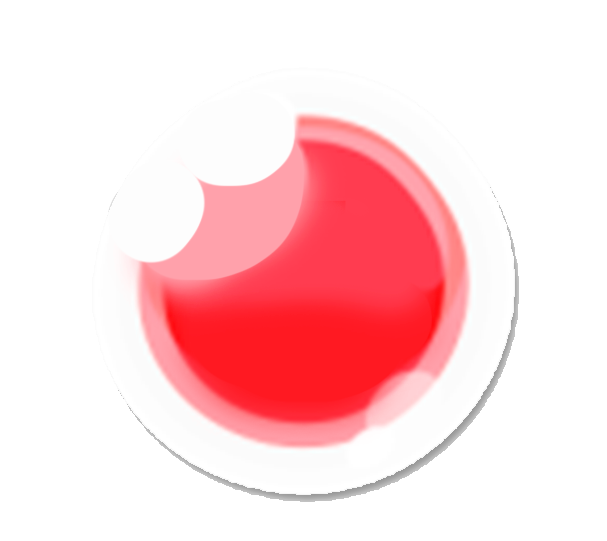
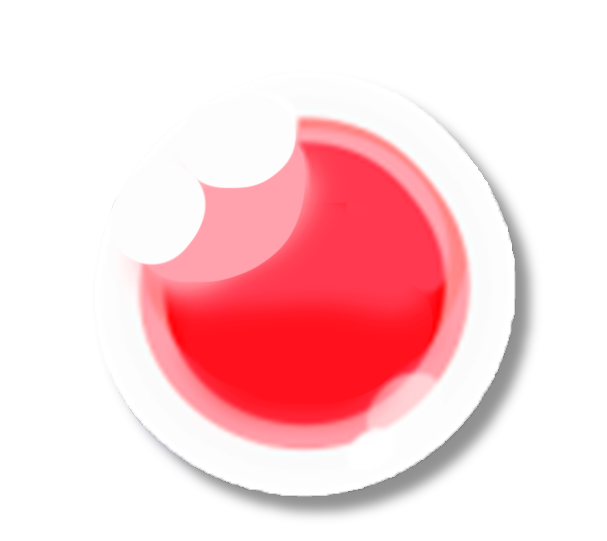
Update 1.1.4

diff --git a/pages/1.1.4/src/scenes/gamescene.js b/pages/1.1.4/src/scenes/gamescene.js
@@ -44,6 +44,8 @@ var indManos;
 var b_continuar; //BOTONES PAUSA Y PUNTAJE
 var b_salir;
 var b_volver;
+var b_siguiente;
+var b_niveles;
 var b_mute;
 var ctndr_burgers = [];
 var plato_burgers = [];
@@ -57,6 +59,7 @@ var F_manoslimpias = true;
 var F_contaminado = false;
 var F_lavar = false;
 var F_nivelactual;
+var F_nivelactualnum;
 var F_generartickets = false;
 var F_freir;
 var progresoLav = 0;
@@ -98,7 +101,7 @@ var puntajeBfinal=0;//salubridad
 var puntajeCfinal=100;//tiempo
 var puntajeTotalfinal = 0;
 
-
+var nivel;
 
 
 var repeticionesA = 0;
@@ -122,18 +125,9 @@ class gamescene extends Phaser.Scene {
 
         //sonidos
 
-        this.anims.create({ //boton mute
-            key: 'sound_on',
-            frames: [ { key: 'sp_b_mute', frame: 0 } ],
-            frameRate: 20,
-        })
-        this.anims.create({
-            key: 'sound_off',
-            frames: [ { key: 'sp_b_mute', frame: 1 } ],
-            frameRate: 20,
-        })
+        //boton mute
 
-        b_mute = this.add.sprite(760,760,'sp_b_mute').setScale(0.2).setDepth(11).setInteractive().setScrollFactor(0);
+        b_mute = this.add.sprite(760,760,'sp_b_mute').setScale(0.2).setDepth(100).setInteractive().setScrollFactor(0);
 
         b_mute.on("pointerup",function(){
             if(!mundo.sound.mute){
@@ -178,16 +172,10 @@ class gamescene extends Phaser.Scene {
 
         for(var i=0;i<6;i++){
             b_nivel[i].on("pointerup",function(){
+                F_nivelactualnum = this.data.values.nivel;
                 F_nivelactual = "level"+this.data.values.nivel;
                 F_generartickets = true;
-                for(var b=0;b<6;b++){
-                    b_nivel[b].removeInteractive().setDepth(-1);
-                    b_niveltexto[b].setDepth(-1);
-                    overlayNiveles.setDepth(-1);
-                    ticketsjson = mundo.cache.json.get(F_nivelactual);
-                    F_selniv = false;
-                    
-                }
+                
             })
         }
 
@@ -220,7 +208,13 @@ class gamescene extends Phaser.Scene {
         //overlay de hamburguesa hecha y boton de basura
 
         overlayBurgerDone = this.add.image(center_width,center_height,'overlay_burgerDone').setDepth(-1).setScrollFactor(0);
-        b_basura = this.add.image(200,110,'b_basura').setDepth(8).setScrollFactor(0).setInteractive();
+        b_basura = this.add.image(180,105,'sp_b_basura').setDepth(8).setScrollFactor(0).setInteractive();
+        b_basura.on('pointerover',function(){
+            b_basura.setFrame(1);
+        })
+        b_basura.on('pointerout',function(){
+            b_basura.setFrame(0);
+        })
         b_basura.on('pointerup',function(){
             if(!F_pausa && !F_selniv && tabla_burgers.length > 0){
                 s_basura.play();
@@ -382,27 +376,15 @@ class gamescene extends Phaser.Scene {
         b_continuar = this.add.image(center_width,center_height-30,'b_continuar').setDepth(-1).setScrollFactor(0).setInteractive();
         b_salir = this.add.image(center_width,center_height+80,'b_salir').setDepth(-1).setScrollFactor(0).setInteractive();
 
-        this.anims.create({
-            key: 'anim_pausa',
-            frames: [ { key: 'sp_b_pausa', frame: 0 } ],
-            frameRate: 20,
-        })
-        this.anims.create({
-            key: 'anim_pausa_over',
-            frames: [ { key: 'sp_b_pausa', frame: 1 } ],
-            frameRate: 20,
-        })
         b_pausa = this.add.sprite(700,100,'sp_b_pausa',0).setInteractive().setDepth(3).setScrollFactor(0);
 
-        b_pausa.on('pointerout',function(){
-            
-            b_pausa.anims.play('anim_pausa');
-            
+        b_pausa.on('pointerout',function(){   
+            b_pausa.setFrame(0);
         },this);
 
         b_pausa.on('pointerover',function(){
             if(!F_pausa && !F_selniv){
-                b_pausa.anims.play('anim_pausa_over');
+                b_pausa.setFrame(1);
             }
 
         },this);
@@ -429,7 +411,7 @@ class gamescene extends Phaser.Scene {
         
 
         //icono manos
-        indManos = this.add.sprite(100,100,'sp_manos',0).setScrollFactor(0).setDepth(3);
+        indManos = this.add.sprite(90,100,'sp_manos',0).setScrollFactor(0).setDepth(3);
         this.anims.create({
             key: 'manos_on',
             frames: [ { key: 'sp_manos', frame: 0 } ],
@@ -451,69 +433,36 @@ class gamescene extends Phaser.Scene {
         botFregadero = this.add.sprite(center_width-250,center_height+250,'sp_b_fregadero').setScrollFactor(0).setInteractive();
         botFregadero.depth = 3;
 
-        this.anims.create({
-            key: 'freg',
-            frames: [ { key: 'sp_b_fregadero', frame: 0 } ],
-            frameRate: 20,
-        });
-        this.anims.create({
-            key: 'freg_active',
-            frames: [ { key: 'sp_b_fregadero', frame: 1 } ],
-            frameRate: 20,
-        });
-
-        botPlancha = this.add.sprite(center_width,center_height+250,'sp_b_plancha').setScrollFactor(0).setInteractive();
+        botPlancha = this.add.sprite(center_width,center_height+250,'sp_b_plancha').setScrollFactor(0).setInteractive().setFrame(1);
         botPlancha.depth = 3;
-
-        this.anims.create({
-            key: 'plan',
-            frames: [ { key: 'sp_b_plancha', frame: 0 } ],
-            frameRate: 20,
-        });
-        this.anims.create({
-            key: 'plan_active',
-            frames: [ { key: 'sp_b_plancha', frame: 1 } ],
-            frameRate: 20,
-        });
-        botPlancha.anims.play('plan_active');
 
         botArmado = this.add.sprite(center_width+250,center_height+250,'sp_b_armado').setScrollFactor(0).setInteractive();
         botArmado.depth = 3;
 
-        this.anims.create({
-            key: 'arma',
-            frames: [ { key: 'sp_b_armado', frame: 0 } ],
-            frameRate: 20,
-        });
-        this.anims.create({
-            key: 'arma_active',
-            frames: [ { key: 'sp_b_armado', frame: 1 } ],
-            frameRate: 20,
-        });
 
         botFregadero.on('pointerup',function(){
             if(!F_burgerDone && !F_selniv && !F_pausa){
-            botArmado.anims.play('arma');
-            botPlancha.anims.play('plan');
-            botFregadero.anims.play('freg_active');
+            botArmado.setFrame(0);
+            botPlancha.setFrame(0);
+            botFregadero.setFrame(1);
             estacion=0;
             cam.pan(center_width,0,150,'Sine.easeInOut');}
         },this)
 
         botPlancha.on('pointerup',function(){
             if(!F_burgerDone && !F_selniv && !F_pausa){
-            botArmado.anims.play('arma');
-            botFregadero.anims.play('freg');
-            botPlancha.anims.play('plan_active');
+            botArmado.setFrame(0);
+            botFregadero.setFrame(0);
+            botPlancha.setFrame(1);
             estacion=1;
             cam.pan(center_width+550,0,150,'Sine.easeInOut');}
         },this)
 
         botArmado.on('pointerup',function(){
             if(!F_burgerDone && !F_selniv && !F_pausa){
-            botPlancha.anims.play('plan');
-            botFregadero.anims.play('freg');
-            botArmado.anims.play('arma_active');
+            botPlancha.setFrame(0);
+            botFregadero.setFrame(0);
+            botArmado.setFrame(1);
             estacion=2;
             cam.pan(center_width+1100,0,150,'Sine.easeInOut');}
         },this)
@@ -534,6 +483,7 @@ class gamescene extends Phaser.Scene {
 
     
     update (time, delta){
+        mundo = this
 
         if(this.sound.mute){
             b_mute.setFrame(1);
@@ -559,6 +509,17 @@ class gamescene extends Phaser.Scene {
         }        
         // TICKETS 
         if(F_generartickets){
+
+            for(var b=0;b<6;b++){
+                b_nivel[b].removeInteractive().setDepth(-1);
+                b_niveltexto[b].setDepth(-1);
+                overlayNiveles.setDepth(-1);
+            }
+
+            ticketsjson = mundo.cache.json.get(F_nivelactual);
+            console.log(ticketsjson)
+            F_selniv = false;
+
             bgm_gameplay.volume = 0.25;
             s_ambiente.play({loop:true,volume:0.25});
             var mundo = this;
@@ -747,19 +708,33 @@ class gamescene extends Phaser.Scene {
             overlayPuntaje.setDepth(9);
             if(puntajeTotalfinal>70){
                 this.add.text(150, 150, '¡Genial!', { font: '24px Raleway',color: '#4a4a4a'}).setDepth(10).setScrollFactor(0);
-                s_win.play({loop:false});
+                s_win.play();
+                b_siguiente = this.add.image(510,570,'b_siguiente').setScrollFactor(0).setDepth(10).setInteractive();
+                F_nivelactualnum++; 
             }
             else{
                 this.add.text(150, 150, 'Intenta de nuevo...', { font: '24px Raleway',color: '#4a4a4a'}).setDepth(10).setScrollFactor(0);
                 s_lose.play();
+                b_siguiente = this.add.image(510,570,'b_reintentar').setScrollFactor(0).setDepth(10).setInteractive();
             }
             
             this.add.text(300,205,puntajeAfinal+'%', { font: '24px Raleway',color: '#4a4a4a'}).setDepth(10).setScrollFactor(0).setOrigin(0);
             this.add.text(300,180,puntajeBfinal+'%', { font: '24px Raleway',color: '#4a4a4a'}).setDepth(10).setScrollFactor(0).setOrigin(0);
             this.add.text(300,230,puntajeCfinal+'%', { font: '24px Raleway',color: '#4a4a4a'}).setDepth(10).setScrollFactor(0).setOrigin(0);
             this.add.text(300,340,puntajeTotalfinal+'%', { font: '24px Raleway',color: '#4a4a4a'}).setDepth(10).setScrollFactor(0).setOrigin(0);
-            b_volver = this.add.image(400,600,'b_volver').setScrollFactor(0).setDepth(10).setInteractive();
+            b_volver = this.add.image(400,570+89,'b_volver').setScrollFactor(0).setDepth(10).setInteractive();
             b_volver.on('pointerup',this.volverMenu,this);
+            
+            if(F_nivelactualnum==6 && puntajeTotalfinal>70){
+                b_siguiente.on('pointerup',this.volverMenu,this);
+            }
+            else{
+                b_siguiente.on('pointerup',this.changelevel,this);
+            }
+            
+            
+            b_niveles = this.add.image(290,570,'b_niveles').setScrollFactor(0).setDepth(10).setInteractive();
+            b_niveles.on('pointerup',this.levelselect,this);
             ticketsleft=99;
         }
 
@@ -1020,6 +995,67 @@ class gamescene extends Phaser.Scene {
             
             
         }
+    }
+    levelselect(){
+        if(F_burgerDone || F_pausa || F_selniv){
+            
+            estacion=1;//ESTACION ACTUAL 0 = lavado, 1 = cocina, 2 = armado
+            dibujoTicket = [];
+            b_nivel = [];
+            b_niveltexto = [];
+            ctndr_burgers = [];
+            plato_burgers = [];
+            tabla_burgers = [];
+            F_burgerCrear = false; //BANDERAS
+            F_burgerAgarrada = true;
+            F_burgerDone = false;
+            F_pausa = false;
+            F_selniv = false;
+            F_manoslimpias = true;
+            F_contaminado = false;
+            F_lavar = false;
+            F_generartickets = false;
+            celdasX = [205,320,440,205,320,440];//centros de cada celda
+            celdasY = [400,400,400,480,480,480];
+            limitesCeldasX1 = [140,260,380,140,260,380];//límites de cada celda
+            limitesCeldasX2 = [260,380,500,260,380,500];
+            limitesCeldasY1 = [360,360,360,440,440,440];
+            limitesCeldasY2 = [440,440,440,520,520,520];
+            F_celdas = [0,0,0,0,0,0];
+            alturaPilaPlato = 0;
+            alturaPilaTabla = 0;
+            comandera = []
+            comanderaNombres = ["ticket1","ticket2","ticket3","ticket4","ticket5","ticket6",]
+            puntajeA=0;//fidelidad
+            puntajeB=0;//salubridad
+            puntajeC=100;//tiempo
+            puntajeTotal = 100;
+            puntajeAfinal=0;//fidelidad
+            puntajeBfinal=0;//salubridad
+            puntajeCfinal=100;//tiempo
+            puntajeTotalfinal = 0;
+            repeticionesA = 0;
+            repeticionesB = 0;
+            
+            s_plancha.stop();
+            bgm_gameplay.stop();
+            s_ambiente.stop();
+            
+            this.scene.restart();
+
+            F_reseteado = true;
+
+            
+            
+            
+        }
+
+    }
+    changelevel(){
+        this.levelselect();
+        F_nivelactual = "level"+F_nivelactualnum;
+        F_generartickets = true;
+            
     }
 }
 

diff --git a/pages/1.1.4/src/bootloader.js b/pages/1.1.4/src/bootloader.js
@@ -119,6 +119,10 @@ class Bootloader extends Phaser.Scene {
         this.load.image('b_salir','./assets/b_salir.png');
         this.load.image('b_nivel','./assets/b_nivel.png');
 
+        this.load.image('b_niveles','./assets/b_niveles.png');
+        this.load.image('b_siguiente','./assets/b_siguiente.png');
+        this.load.image('b_reintentar','./assets/b_reintentar.png');
+
         this.load.image('ticket1','./assets/ticket_1.png');
         this.load.image('ticket2','./assets/ticket_2.png');
         this.load.image('ticket3','./assets/ticket_3.png');
@@ -136,11 +140,12 @@ class Bootloader extends Phaser.Scene {
         this.load.image('overlay_levelselect','./assets/overlay_levelselect.png');
 
         this.load.spritesheet('sp_b_mute','./assets/sp_b_mute.png',{frameWidth: 300, frameHeight: 300});
-        this.load.spritesheet('sp_b_armado','./assets/sp_b_armado.png',{frameWidth: 224, frameHeight: 75});
-        this.load.spritesheet('sp_b_fregadero','./assets/sp_b_fregadero.png',{frameWidth: 224, frameHeight: 75});
-        this.load.spritesheet('sp_b_plancha','./assets/sp_b_plancha.png',{frameWidth: 224, frameHeight: 75});
-        this.load.spritesheet('sp_b_pausa','./assets/sp_b_pausa.png',{frameWidth: 100, frameHeight: 100});
-        this.load.spritesheet('sp_manos','./assets/sp_manos.png',{frameWidth: 134, frameHeight: 134});
+        this.load.spritesheet('sp_b_armado','./assets/sp_b_armado.png',{frameWidth: 244, frameHeight: 95});
+        this.load.spritesheet('sp_b_fregadero','./assets/sp_b_fregadero.png',{frameWidth: 244, frameHeight: 95});
+        this.load.spritesheet('sp_b_plancha','./assets/sp_b_plancha.png',{frameWidth: 244, frameHeight: 95});
+        this.load.spritesheet('sp_b_pausa','./assets/sp_b_pausa.png',{frameWidth: 120, frameHeight: 120});
+        this.load.spritesheet('sp_b_basura','./assets/sp_b_basura.png',{frameWidth: 100, frameHeight: 100});
+        this.load.spritesheet('sp_manos','./assets/sp_manos.png',{frameWidth: 154, frameHeight: 154});
         this.load.spritesheet('sp_barra','./assets/sp_barrafregadero.png',{frameWidth: 450, frameHeight: 250});
     }
     

diff --git a/index.html b/index.html
@@ -25,7 +25,7 @@
     <a href="./pages/1.1.1/1.1.1.html">Prototipo v1.1.1</a> <br>
     <a href="./pages/1.1.2/1.1.2.html">Prototipo v1.1.2</a> <br>
     <a href="./pages/1.1.3/1.1.3.html">Prototipo v1.1.3</a> <br>
-    <a href="./pages/1.1.4/1.1.4.html">Prototipo v1.1.4 (WIP)</a>
+    <a href="./pages/1.1.4/1.1.4.html">Prototipo v1.1.4</a>
 
     <div>
         <h2>Control de versiones</h2>
@@ -33,6 +33,7 @@
             <li>1.1.1   Limpieza de código, reducción de tamaño. Assets no utilizados eliminados.</li>
             <li>1.1.2   Sistema de tickets re-escrito. Sistema de niveles con archivos .json agregado.</li>
             <li>1.1.3   Pantalla de selección de niveles. Niveles 1-6. Bugfixes.</li>
+            <li>1.1.4   Sonido añadido, boton de mute. Mejoras en pantalla de nivel terminado. Sombras de assets.</li>
         </ul>
     </div>
 </body>
